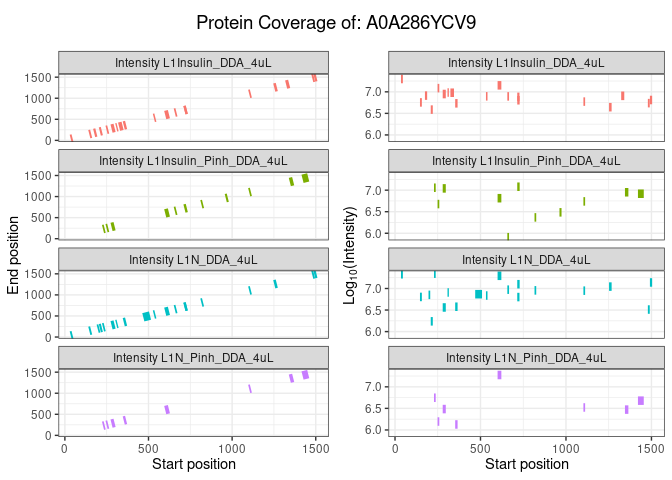
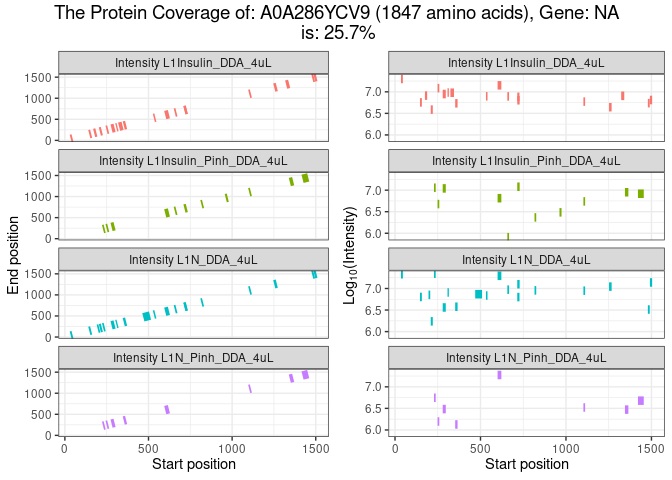
updated

Changed region(s): [[0.0625, 0.0, 0.9375, 0.0938]]

diff --git a/README.md b/README.md
@@ -36,7 +36,7 @@ library(ProteoMS)
 ``` r
 MQPathCombined <- system.file('extdata', package = 'ProteoMS') #is the directory with the output of the MaxQuant analysis.
 
-#MQPathCombined <- '/home/alvaro/Documents/MaxQuant_results/combined/'
+#MQPathCombined <- '/home/alvaro/Documents/MaxQuant/example5/combined/'
 
 files <- ReadDataFromDir(MQPathCombined) #This function will read the tables needed for creating the outputs.
 
@@ -48,7 +48,7 @@ msScans <- files[['msScans.txt']]
 peptides <- files[["peptides.txt"]]
 msmsScans <- files[["msmsScans.txt"]]
 proteinGroups <- files[["proteinGroups.txt"]]
-modificationSpecificPeptides.txt  <- files[["modificationSpecificPeptides.txt"]]
+modificationSpecificPeptides<- files[["modificationSpecificPeptides.txt"]]
 runningTimes <-  files[["#runningTimes.txt"]]
 parameters <- files[["parameters.txt"]]
 ```
@@ -141,7 +141,7 @@ PlotTotalIonCurrent(msmsScans)
 <img src="man/figures/README-TotalIonCurrent-1.png" width="100%" />
 
 ``` r
-PlotProteinCoverage(peptides, UniprotID = "A0A286YCV9", log_base = 10, segment_width = 3)
+PlotProteinCoverage(peptides,proteinGroups ,UniprotID = "A0A286YCV9", log_base = 10, segment_width = 3)
 ```
 
 <img src="man/figures/README-protein_degradation-1.png" width="100%" />
@@ -166,3 +166,10 @@ PLotAllDynamicRange(proteinGroups,columns = 1,rows = 2)
 ```
 
 <img src="man/figures/README-DynamicRangeAll-1.png" width="100%" /><img src="man/figures/README-DynamicRangeAll-2.png" width="100%" />
+
+``` r
+
+PlotPTM(modificationSpecificPeptides, freq_min = 3)
+```
+
+<img src="man/figures/README-PTM-1.png" width="100%" />
